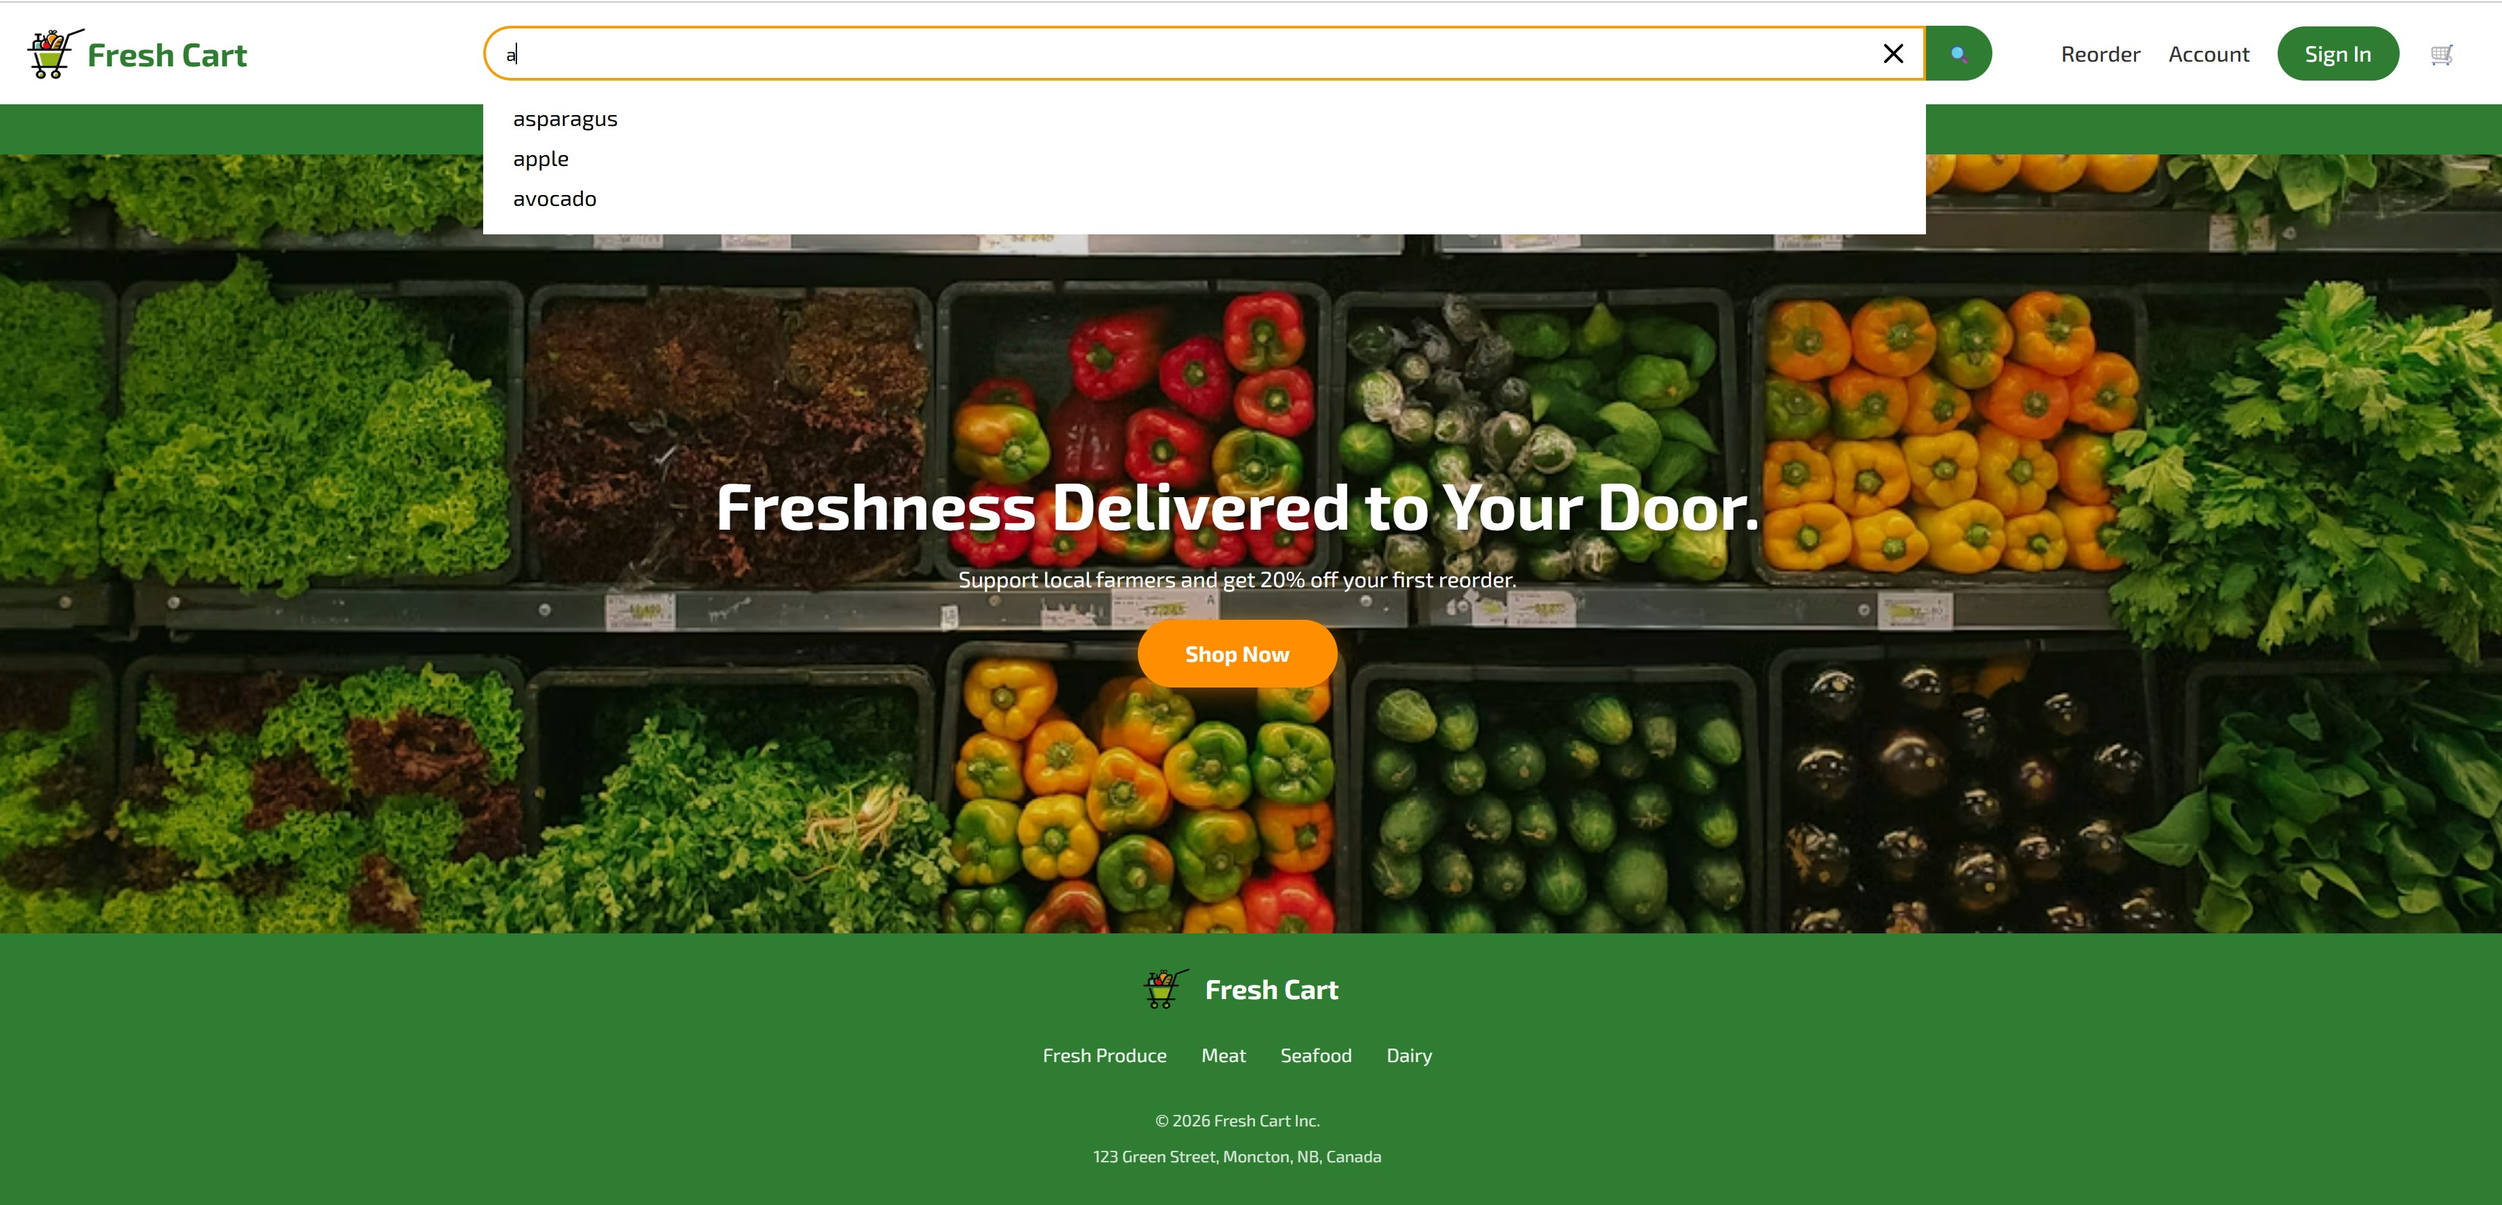
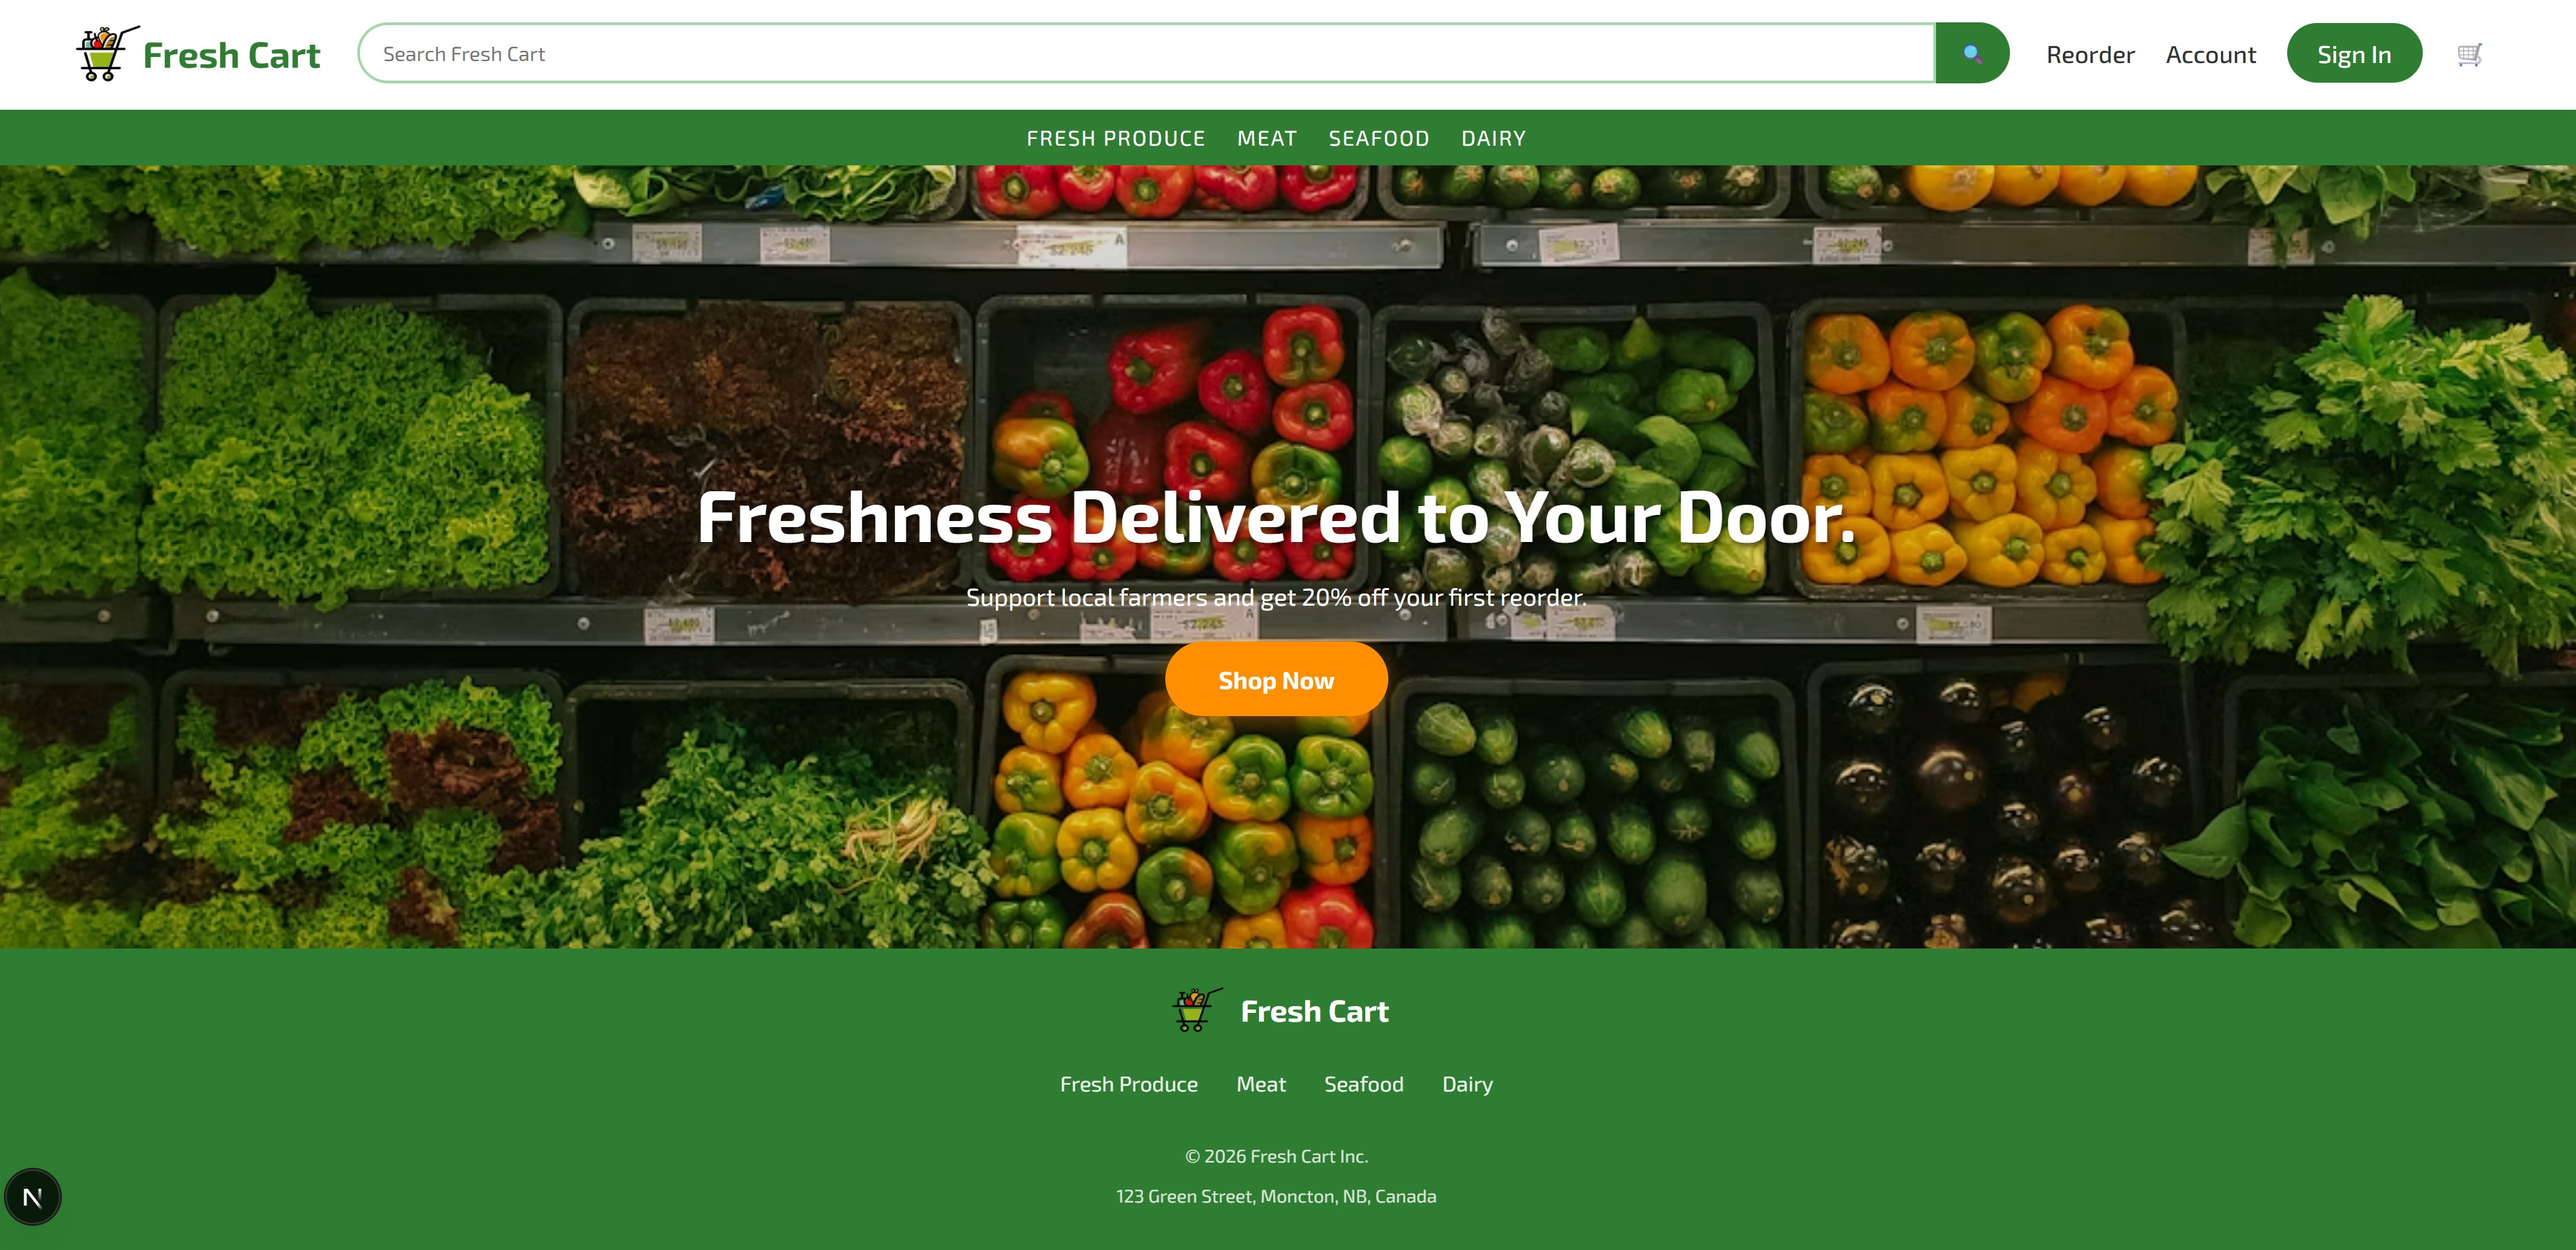
style: redesign homepage, header, and footer

diff --git a/components/Footer.module.css b/components/Footer.module.css
@@ -1,27 +1,40 @@
 .footer {
+    display: flex;
+    flex-direction: row;
+    justify-content: center;
+    align-items: flex-start;
     background-color: var(--primary-green);
     color: var(--white);
-    padding: 20px 20px;
-    display: flex;
-    flex-direction: column;
-    align-items: center;
-    gap: 20px;
+    padding: 32px;
+    gap: 50px;
 }
-
 
 .brand {
     display: flex;
     align-items: center;
-    gap: 10px;
+    gap: 5px;
+    height: 48px;
     font-size: 20px;
     font-weight: bold;
 }
 
+.logoImage {
+    height: 48px;
+    width: auto;
+}
+
+.bottomMenu {
+    display: flex;
+    flex-direction: column;
+    gap: 12px;
+}
+
 .links {
     display: flex;
-    gap: 25px;
+    align-items: center;
+    gap: 40px;
+    min-height: 48px;
     flex-wrap: wrap;
-    justify-content: center;
 }
 
 .links a {
@@ -36,7 +49,46 @@
 }
 
 .info {
-    text-align: center;
+    display: flex;
+    gap: 30px;
     font-size: 12px;
     opacity: 0.8;
+}
+
+.info p {
+    margin: 0;
+}
+
+@media (max-width: 740px) {
+    .footer {
+        flex-direction: column;
+        align-items: center;
+        gap: 20px;
+    }
+
+    .brand {
+        flex-shrink: 0;
+        white-space: nowrap;
+    }
+
+    .bottomMenu {
+        width: 100%;
+        align-items: center;
+        gap: 16px;
+    }
+
+    .links {
+        justify-content: center;
+        flex-wrap: wrap;
+        gap: 15px;
+        min-height: auto;
+    }
+
+    .info {
+        display: flex;
+        flex-direction: column;
+        align-items: center;
+        gap: 8px;
+        text-align: center;
+    }
 }

diff --git a/components/Header.module.css b/components/Header.module.css
@@ -4,7 +4,7 @@
     grid-template-columns:
         minmax(max-content, 1fr) minmax(280px, 1100px) minmax(max-content, 1fr);
     align-items: center;
-    column-gap: clamp(8px, 2vw, 24px);
+    column-gap: clamp(16px, 3vw, 48px);
     padding: 12px clamp(16px, 5vw, 60px);
     background-color: var(--white);
     box-shadow: 0 2px 10px rgba(0, 0, 0, 0.05);
@@ -21,8 +21,10 @@
 
 .center {
     width: 100%;
+    max-width: 800px;
     min-width: 0;
     display: flex;
+    justify-self: center;
 }
 
 .right {
@@ -42,8 +44,10 @@
     color: var(--primary-green);
 }
 
+/* User menu */
 .userMenu {
     display: flex;
+    justify-content: center;
     align-items: center;
     gap: clamp(10px, 1.5vw, 20px);
     flex-wrap: nowrap;
@@ -74,13 +78,19 @@
     opacity: 0.7;
 }
 
+.cartLink {
+    display: flex;
+    align-items: center;
+    justify-content: center;
+}
+
 .categoryStrip {
     background-color: var(--primary-green);
     display: flex;
     align-items: center;
     justify-content: center;
     padding: 10px 20px;
-    gap: 20px;
+    gap: 32px;
     flex-wrap: wrap;
 }
 
@@ -121,6 +131,10 @@
         width: 100%;
         justify-self: stretch;
         justify-content: center;
+    }
+
+    .categoryStrip {
+        gap: 20px;
     }
 
     .userMenu {

diff --git a/components/Footer.tsx b/components/Footer.tsx
@@ -16,15 +16,17 @@ export default function Footer() {
           />
           <span>Fresh Cart</span>
         </div>
-        <div className={styles.links}>
-          <Link href='/products/fresh-produce'>Fresh Produce</Link>
-          <Link href='/products/meat'>Meat</Link>
-          <Link href='/products/seafood'>Seafood</Link>
-          <Link href='/products/dairy'>Dairy</Link>
-        </div>
-        <div className={styles.info}>
-          <p>© 2026 Fresh Cart Inc.</p>
-          <p>123 Green Street, Moncton, NB, Canada</p>
+        <div className={styles.bottomMenu}>
+          <div className={styles.links}>
+            <Link href='/products/fresh-produce'>Fresh Produce</Link>
+            <Link href='/products/meat'>Meat</Link>
+            <Link href='/products/seafood'>Seafood</Link>
+            <Link href='/products/dairy'>Dairy</Link>
+          </div>
+          <div className={styles.info}>
+            <p>© 2026 Fresh Cart Inc.</p>
+            <p>123 Green Street, Moncton, NB, Canada</p>
+          </div>
         </div>
       </footer>
     </>

diff --git a/components/Search.module.css b/components/Search.module.css
@@ -16,7 +16,8 @@
     width: 100%;
     height: 40px;
     font-family: var(--font-exo2);
-    padding: 0 40px 0 15px;
+    font-size: 14px;
+    padding: 0 40px 0 20px;
     border: 2px solid var(--light-green);
     border-radius: 20px 0 0 20px;
     outline: none;
@@ -25,6 +26,18 @@
 
 .searchInput:focus {
     border: 2px solid #f59e0b;
+}
+
+.searchButton {
+    display: flex;
+    align-items: center;
+    background-color: var(--primary-green);
+    height: 40px;
+    border: none;
+    color: white;
+    padding: 0 20px;
+    border-radius: 0 20px 20px 0;
+    cursor: pointer;
 }
 
 .suggestionList {
@@ -53,16 +66,6 @@
     font-family: inherit;
     font-size: 1rem;
     border: none;
-}
-
-.searchButton {
-    background-color: var(--primary-green);
-    height: 40px;
-    border: none;
-    color: white;
-    padding: 0 15px;
-    border-radius: 0 20px 20px 0;
-    cursor: pointer;
 }
 
 .clearButton {

diff --git a/components/Header.tsx b/components/Header.tsx
@@ -5,6 +5,7 @@ import Search from "./Search";
 import styles from "@/components/Header.module.css";
 import { useEffect, useState } from "react";
 import { usePathname, useRouter } from "next/navigation";
+import { ShoppingCart } from "lucide-react";
 
 export default function Header() {
   const [isSignIn, setIsSignIn] = useState(false);
@@ -75,12 +76,9 @@ export default function Header() {
                 Sign In
               </Link>
             )}
-
-            <div className={styles.cartIcon}>
-              <Link href='/cart'>
-                🛒 <span id='cart-total'></span>
-              </Link>
-            </div>
+            <Link href='/cart' className={styles.cartLink}>
+              <ShoppingCart size={25} />
+            </Link>
           </nav>
         </div>
       </header>

diff --git a/components/Search.tsx b/components/Search.tsx
@@ -2,7 +2,7 @@
 import { useEffect, useState } from "react";
 import { useRouter, usePathname } from "next/navigation";
 import styles from "./Search.module.css";
-import { X } from "lucide-react";
+import { X, SearchIcon } from "lucide-react";
 
 type ProductSuggestion = {
   searchKeyword: string;
@@ -202,7 +202,7 @@ export default function Search() {
       </div>
 
       <button type='submit' className={styles.searchButton} aria-label='Search'>
-        🔍
+        <SearchIcon />
       </button>
     </form>
   );

diff --git a/app/page.module.css b/app/page.module.css
@@ -4,10 +4,11 @@
     align-items: center;
     justify-content: center;
     text-align: center;
-    background: linear-gradient(rgba(0, 0, 0, 0.1), rgba(0, 0, 0, 0.1)),
+    background: linear-gradient(rgba(0, 0, 0, 0.53), rgba(0, 0, 0, 0.53)),
         url('https://images.unsplash.com/photo-1542838132-92c53300491e?auto=format&fit=crop&w=1200&q=80');
     background-size: cover;
-    background-position: center;
+    /* background-position: center; */
+    background-position: center 39%;
     color: white;
 }
 

diff --git a/app/page.tsx b/app/page.tsx
@@ -6,7 +6,7 @@ export default function Home() {
     <main className={styles.hero}>
       <div className={styles.heroContent}>
         <h1 className={styles.title}>Freshness Delivered to Your Door.</h1>
-        <p>Support local farmers and get 20% off your first reorder.</p>
+        <p>Support local farmers and get 20% off your first order.</p>
         <br />
         <Link href='/products/fresh-produce' className={styles.ctaMain}>
           Shop Now

diff --git a/README.md b/README.md
@@ -10,7 +10,7 @@ A full-stack grocery e-commerce application built with TypeScript, React, Next.j
 
 ---
 
-## 🎯 Why I Built This Project
+## 🎯 Why I Started This Project
 
 Through coursework and academic projects, I've developed a strong foundation in web development.
 However, I wanted to go beyond assignments and build my own application from scratch to deepen my understanding and gain hands-on experience with the end-to-end development process, from relational database design and REST API development to automated testing and cloud deployment.
